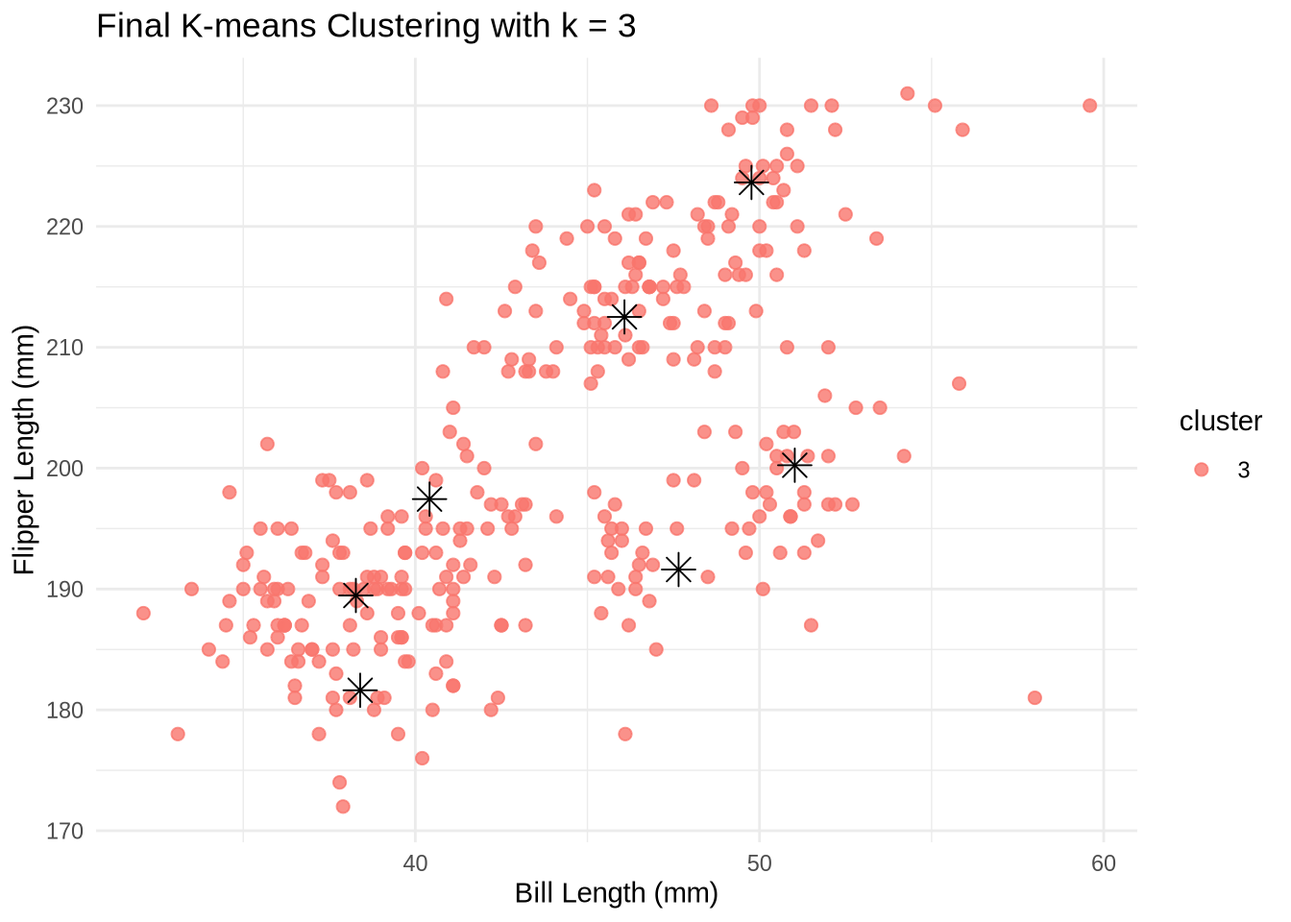
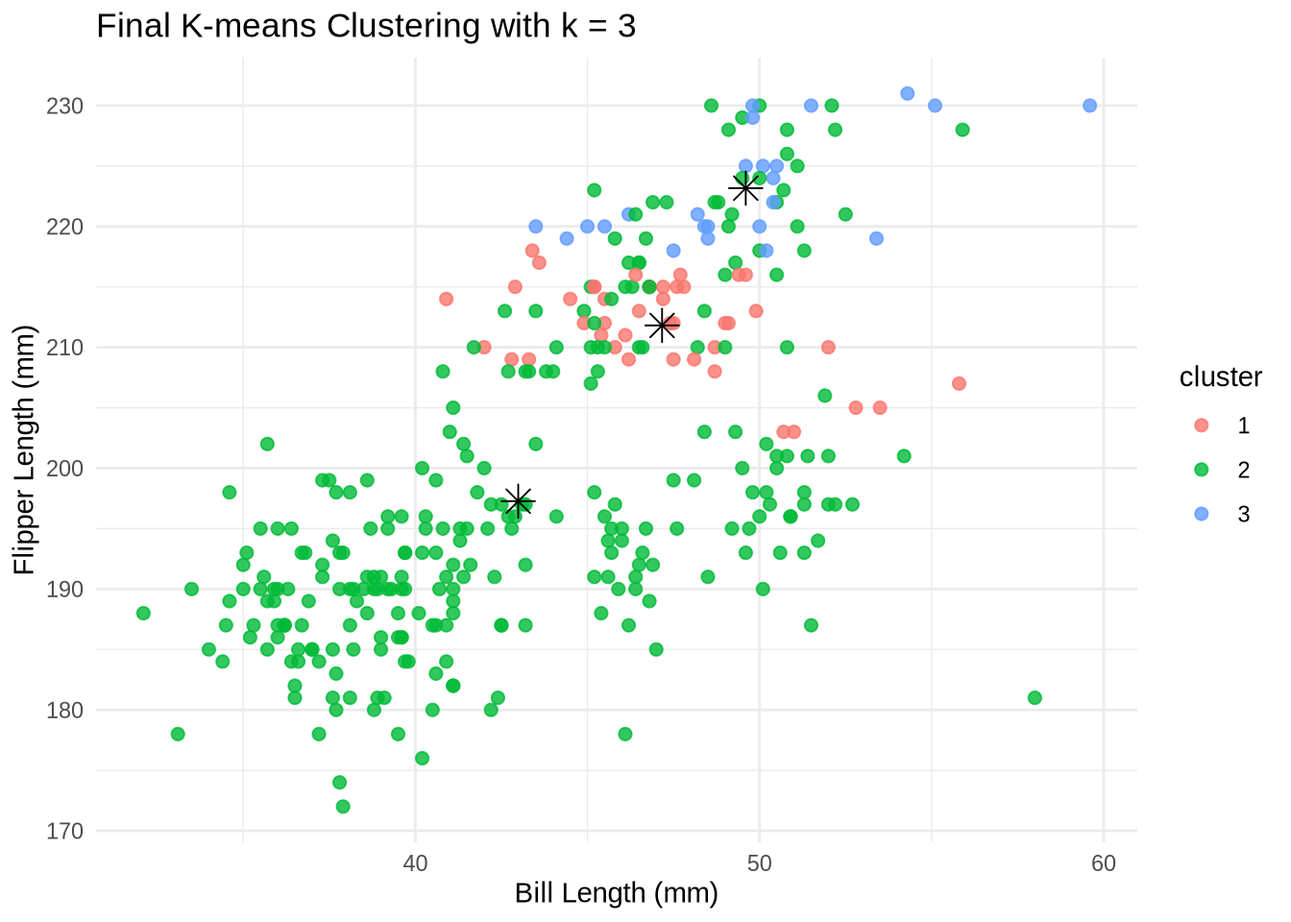
com9

diff --git a/docs/blog/machine_learning/hw4_questions.html b/docs/blog/machine_learning/hw4_questions.html
@@ -413,19 +413,26 @@ pre > code.sourceCode > span > a:first-child::before { text-decoration: underlin
 </ul>
 <p>Considering both metrics, <strong>K = 3</strong> is a balanced choice — it captures additional structure while maintaining compact, well-separated clusters. This aligns with the natural grouping observed in the penguins dataset.</p>
 <div class="cell">
-<div class="sourceCode cell-code" id="cb10"><pre class="sourceCode r code-with-copy"><code class="sourceCode r"><span id="cb10-1"><a href="#cb10-1" aria-hidden="true" tabindex="-1"></a>penguins_clustered <span class="ot">&lt;-</span> penguins_clean <span class="sc">%&gt;%</span></span>
-<span id="cb10-2"><a href="#cb10-2" aria-hidden="true" tabindex="-1"></a>  <span class="fu">mutate</span>(<span class="at">cluster =</span> <span class="fu">factor</span>(<span class="dv">3</span>))</span>
+<div class="sourceCode cell-code" id="cb10"><pre class="sourceCode r code-with-copy"><code class="sourceCode r"><span id="cb10-1"><a href="#cb10-1" aria-hidden="true" tabindex="-1"></a>X <span class="ot">&lt;-</span> <span class="fu">as.matrix</span>(penguins_clean)</span>
+<span id="cb10-2"><a href="#cb10-2" aria-hidden="true" tabindex="-1"></a>k_result <span class="ot">&lt;-</span> <span class="fu">k_means_custom</span>(X, <span class="at">k =</span> <span class="dv">3</span>, <span class="at">max_iter =</span> <span class="dv">10</span>)</span>
 <span id="cb10-3"><a href="#cb10-3" aria-hidden="true" tabindex="-1"></a></span>
-<span id="cb10-4"><a href="#cb10-4" aria-hidden="true" tabindex="-1"></a>centers_final <span class="ot">&lt;-</span> <span class="fu">as.data.frame</span>(k_result<span class="sc">$</span>centers)</span>
-<span id="cb10-5"><a href="#cb10-5" aria-hidden="true" tabindex="-1"></a></span>
-<span id="cb10-6"><a href="#cb10-6" aria-hidden="true" tabindex="-1"></a><span class="fu">ggplot</span>(penguins_clustered, <span class="fu">aes</span>(<span class="at">x =</span> bill_length_mm, <span class="at">y =</span> flipper_length_mm, <span class="at">color =</span> cluster)) <span class="sc">+</span></span>
-<span id="cb10-7"><a href="#cb10-7" aria-hidden="true" tabindex="-1"></a>  <span class="fu">geom_point</span>(<span class="at">size =</span> <span class="dv">2</span>, <span class="at">alpha =</span> <span class="fl">0.8</span>) <span class="sc">+</span></span>
-<span id="cb10-8"><a href="#cb10-8" aria-hidden="true" tabindex="-1"></a>  <span class="fu">geom_point</span>(<span class="at">data =</span> centers_final, <span class="fu">aes</span>(<span class="at">x =</span> bill_length_mm, <span class="at">y =</span> flipper_length_mm),</span>
-<span id="cb10-9"><a href="#cb10-9" aria-hidden="true" tabindex="-1"></a>             <span class="at">shape =</span> <span class="dv">8</span>, <span class="at">size =</span> <span class="dv">4</span>, <span class="at">color =</span> <span class="st">"black"</span>) <span class="sc">+</span></span>
-<span id="cb10-10"><a href="#cb10-10" aria-hidden="true" tabindex="-1"></a>  <span class="fu">labs</span>(<span class="at">title =</span> <span class="st">"Final K-means Clustering with k = 3"</span>,</span>
-<span id="cb10-11"><a href="#cb10-11" aria-hidden="true" tabindex="-1"></a>       <span class="at">x =</span> <span class="st">"Bill Length (mm)"</span>,</span>
-<span id="cb10-12"><a href="#cb10-12" aria-hidden="true" tabindex="-1"></a>       <span class="at">y =</span> <span class="st">"Flipper Length (mm)"</span>) <span class="sc">+</span></span>
-<span id="cb10-13"><a href="#cb10-13" aria-hidden="true" tabindex="-1"></a>  <span class="fu">theme_minimal</span>()</span></code><button title="Copy to Clipboard" class="code-copy-button"><i class="bi"></i></button></pre></div>
+<span id="cb10-4"><a href="#cb10-4" aria-hidden="true" tabindex="-1"></a><span class="fu">length</span>(k_result<span class="sc">$</span>final_clusters)  <span class="co"># should be 333</span></span></code><button title="Copy to Clipboard" class="code-copy-button"><i class="bi"></i></button></pre></div>
+<div class="cell-output cell-output-stdout">
+<pre><code>[1] 333</code></pre>
+</div>
+<div class="sourceCode cell-code" id="cb12"><pre class="sourceCode r code-with-copy"><code class="sourceCode r"><span id="cb12-1"><a href="#cb12-1" aria-hidden="true" tabindex="-1"></a>penguins_clustered <span class="ot">&lt;-</span> penguins_clean <span class="sc">%&gt;%</span></span>
+<span id="cb12-2"><a href="#cb12-2" aria-hidden="true" tabindex="-1"></a>  <span class="fu">mutate</span>(<span class="at">cluster =</span> <span class="fu">factor</span>(k_result<span class="sc">$</span>final_clusters))</span>
+<span id="cb12-3"><a href="#cb12-3" aria-hidden="true" tabindex="-1"></a></span>
+<span id="cb12-4"><a href="#cb12-4" aria-hidden="true" tabindex="-1"></a>centers_final <span class="ot">&lt;-</span> <span class="fu">as.data.frame</span>(k_result<span class="sc">$</span>centers)</span>
+<span id="cb12-5"><a href="#cb12-5" aria-hidden="true" tabindex="-1"></a></span>
+<span id="cb12-6"><a href="#cb12-6" aria-hidden="true" tabindex="-1"></a><span class="fu">ggplot</span>(penguins_clustered, <span class="fu">aes</span>(<span class="at">x =</span> bill_length_mm, <span class="at">y =</span> flipper_length_mm, <span class="at">color =</span> cluster)) <span class="sc">+</span></span>
+<span id="cb12-7"><a href="#cb12-7" aria-hidden="true" tabindex="-1"></a>  <span class="fu">geom_point</span>(<span class="at">size =</span> <span class="dv">2</span>, <span class="at">alpha =</span> <span class="fl">0.8</span>) <span class="sc">+</span></span>
+<span id="cb12-8"><a href="#cb12-8" aria-hidden="true" tabindex="-1"></a>  <span class="fu">geom_point</span>(<span class="at">data =</span> centers_final, <span class="fu">aes</span>(<span class="at">x =</span> bill_length_mm, <span class="at">y =</span> flipper_length_mm),</span>
+<span id="cb12-9"><a href="#cb12-9" aria-hidden="true" tabindex="-1"></a>             <span class="at">shape =</span> <span class="dv">8</span>, <span class="at">size =</span> <span class="dv">4</span>, <span class="at">color =</span> <span class="st">"black"</span>) <span class="sc">+</span></span>
+<span id="cb12-10"><a href="#cb12-10" aria-hidden="true" tabindex="-1"></a>  <span class="fu">labs</span>(<span class="at">title =</span> <span class="st">"Final K-means Clustering with k = 3"</span>,</span>
+<span id="cb12-11"><a href="#cb12-11" aria-hidden="true" tabindex="-1"></a>       <span class="at">x =</span> <span class="st">"Bill Length (mm)"</span>,</span>
+<span id="cb12-12"><a href="#cb12-12" aria-hidden="true" tabindex="-1"></a>       <span class="at">y =</span> <span class="st">"Flipper Length (mm)"</span>) <span class="sc">+</span></span>
+<span id="cb12-13"><a href="#cb12-13" aria-hidden="true" tabindex="-1"></a>  <span class="fu">theme_minimal</span>()</span></code><button title="Copy to Clipboard" class="code-copy-button"><i class="bi"></i></button></pre></div>
 <div class="cell-output-display">
 <div>
 <figure class="figure">
@@ -440,32 +447,32 @@ pre > code.sourceCode > span > a:first-child::before { text-decoration: underlin
 <section id="a.-k-nearest-neighbors" class="level2">
 <h2 class="anchored" data-anchor-id="a.-k-nearest-neighbors">2a. K Nearest Neighbors</h2>
 <div class="cell">
-<div class="sourceCode cell-code" id="cb11"><pre class="sourceCode r code-with-copy"><code class="sourceCode r"><span id="cb11-1"><a href="#cb11-1" aria-hidden="true" tabindex="-1"></a><span class="co"># gen data -----</span></span>
-<span id="cb11-2"><a href="#cb11-2" aria-hidden="true" tabindex="-1"></a><span class="fu">set.seed</span>(<span class="dv">42</span>)</span>
-<span id="cb11-3"><a href="#cb11-3" aria-hidden="true" tabindex="-1"></a>n <span class="ot">&lt;-</span> <span class="dv">100</span></span>
-<span id="cb11-4"><a href="#cb11-4" aria-hidden="true" tabindex="-1"></a>x1 <span class="ot">&lt;-</span> <span class="fu">runif</span>(n, <span class="sc">-</span><span class="dv">3</span>, <span class="dv">3</span>)</span>
-<span id="cb11-5"><a href="#cb11-5" aria-hidden="true" tabindex="-1"></a>x2 <span class="ot">&lt;-</span> <span class="fu">runif</span>(n, <span class="sc">-</span><span class="dv">3</span>, <span class="dv">3</span>)</span>
-<span id="cb11-6"><a href="#cb11-6" aria-hidden="true" tabindex="-1"></a>x <span class="ot">&lt;-</span> <span class="fu">cbind</span>(x1, x2)</span>
-<span id="cb11-7"><a href="#cb11-7" aria-hidden="true" tabindex="-1"></a></span>
-<span id="cb11-8"><a href="#cb11-8" aria-hidden="true" tabindex="-1"></a><span class="co"># define a wiggly boundary</span></span>
-<span id="cb11-9"><a href="#cb11-9" aria-hidden="true" tabindex="-1"></a>boundary <span class="ot">&lt;-</span> <span class="fu">sin</span>(<span class="dv">4</span><span class="sc">*</span>x1) <span class="sc">+</span> x1</span>
-<span id="cb11-10"><a href="#cb11-10" aria-hidden="true" tabindex="-1"></a>y <span class="ot">&lt;-</span> <span class="fu">ifelse</span>(x2 <span class="sc">&gt;</span> boundary, <span class="dv">1</span>, <span class="dv">0</span>) <span class="sc">|&gt;</span> <span class="fu">as.factor</span>()</span>
-<span id="cb11-11"><a href="#cb11-11" aria-hidden="true" tabindex="-1"></a>dat <span class="ot">&lt;-</span> <span class="fu">data.frame</span>(<span class="at">x1 =</span> x1, <span class="at">x2 =</span> x2, <span class="at">y =</span> y)</span></code><button title="Copy to Clipboard" class="code-copy-button"><i class="bi"></i></button></pre></div>
+<div class="sourceCode cell-code" id="cb13"><pre class="sourceCode r code-with-copy"><code class="sourceCode r"><span id="cb13-1"><a href="#cb13-1" aria-hidden="true" tabindex="-1"></a><span class="co"># gen data -----</span></span>
+<span id="cb13-2"><a href="#cb13-2" aria-hidden="true" tabindex="-1"></a><span class="fu">set.seed</span>(<span class="dv">42</span>)</span>
+<span id="cb13-3"><a href="#cb13-3" aria-hidden="true" tabindex="-1"></a>n <span class="ot">&lt;-</span> <span class="dv">100</span></span>
+<span id="cb13-4"><a href="#cb13-4" aria-hidden="true" tabindex="-1"></a>x1 <span class="ot">&lt;-</span> <span class="fu">runif</span>(n, <span class="sc">-</span><span class="dv">3</span>, <span class="dv">3</span>)</span>
+<span id="cb13-5"><a href="#cb13-5" aria-hidden="true" tabindex="-1"></a>x2 <span class="ot">&lt;-</span> <span class="fu">runif</span>(n, <span class="sc">-</span><span class="dv">3</span>, <span class="dv">3</span>)</span>
+<span id="cb13-6"><a href="#cb13-6" aria-hidden="true" tabindex="-1"></a>x <span class="ot">&lt;-</span> <span class="fu">cbind</span>(x1, x2)</span>
+<span id="cb13-7"><a href="#cb13-7" aria-hidden="true" tabindex="-1"></a></span>
+<span id="cb13-8"><a href="#cb13-8" aria-hidden="true" tabindex="-1"></a><span class="co"># define a wiggly boundary</span></span>
+<span id="cb13-9"><a href="#cb13-9" aria-hidden="true" tabindex="-1"></a>boundary <span class="ot">&lt;-</span> <span class="fu">sin</span>(<span class="dv">4</span><span class="sc">*</span>x1) <span class="sc">+</span> x1</span>
+<span id="cb13-10"><a href="#cb13-10" aria-hidden="true" tabindex="-1"></a>y <span class="ot">&lt;-</span> <span class="fu">ifelse</span>(x2 <span class="sc">&gt;</span> boundary, <span class="dv">1</span>, <span class="dv">0</span>) <span class="sc">|&gt;</span> <span class="fu">as.factor</span>()</span>
+<span id="cb13-11"><a href="#cb13-11" aria-hidden="true" tabindex="-1"></a>dat <span class="ot">&lt;-</span> <span class="fu">data.frame</span>(<span class="at">x1 =</span> x1, <span class="at">x2 =</span> x2, <span class="at">y =</span> y)</span></code><button title="Copy to Clipboard" class="code-copy-button"><i class="bi"></i></button></pre></div>
 </div>
 <div class="cell">
-<div class="sourceCode cell-code" id="cb12"><pre class="sourceCode r code-with-copy"><code class="sourceCode r"><span id="cb12-1"><a href="#cb12-1" aria-hidden="true" tabindex="-1"></a><span class="co"># Plot the points and the wiggly boundary</span></span>
-<span id="cb12-2"><a href="#cb12-2" aria-hidden="true" tabindex="-1"></a><span class="fu">ggplot</span>(dat, <span class="fu">aes</span>(<span class="at">x =</span> x1, <span class="at">y =</span> x2, <span class="at">color =</span> y)) <span class="sc">+</span></span>
-<span id="cb12-3"><a href="#cb12-3" aria-hidden="true" tabindex="-1"></a>  <span class="fu">geom_point</span>(<span class="at">size =</span> <span class="dv">2</span>, <span class="at">alpha =</span> <span class="fl">0.8</span>) <span class="sc">+</span></span>
-<span id="cb12-4"><a href="#cb12-4" aria-hidden="true" tabindex="-1"></a>  <span class="fu">stat_function</span>(<span class="at">fun =</span> <span class="cf">function</span>(x) <span class="fu">sin</span>(<span class="dv">4</span> <span class="sc">*</span> x) <span class="sc">+</span> x, </span>
-<span id="cb12-5"><a href="#cb12-5" aria-hidden="true" tabindex="-1"></a>                <span class="at">color =</span> <span class="st">"black"</span>, <span class="at">linetype =</span> <span class="st">"dashed"</span>) <span class="sc">+</span></span>
-<span id="cb12-6"><a href="#cb12-6" aria-hidden="true" tabindex="-1"></a>  <span class="fu">labs</span>(</span>
-<span id="cb12-7"><a href="#cb12-7" aria-hidden="true" tabindex="-1"></a>    <span class="at">title =</span> <span class="st">"Synthetic Classification Dataset with Wiggly Boundary"</span>,</span>
-<span id="cb12-8"><a href="#cb12-8" aria-hidden="true" tabindex="-1"></a>    <span class="at">x =</span> <span class="st">"x1"</span>,</span>
-<span id="cb12-9"><a href="#cb12-9" aria-hidden="true" tabindex="-1"></a>    <span class="at">y =</span> <span class="st">"x2"</span>,</span>
-<span id="cb12-10"><a href="#cb12-10" aria-hidden="true" tabindex="-1"></a>    <span class="at">color =</span> <span class="st">"Class (y)"</span></span>
-<span id="cb12-11"><a href="#cb12-11" aria-hidden="true" tabindex="-1"></a>  ) <span class="sc">+</span></span>
-<span id="cb12-12"><a href="#cb12-12" aria-hidden="true" tabindex="-1"></a>  <span class="fu">scale_color_manual</span>(<span class="at">values =</span> <span class="fu">c</span>(<span class="st">"dodgerblue"</span>, <span class="st">"tomato"</span>)) <span class="sc">+</span></span>
-<span id="cb12-13"><a href="#cb12-13" aria-hidden="true" tabindex="-1"></a>  <span class="fu">theme_minimal</span>()</span></code><button title="Copy to Clipboard" class="code-copy-button"><i class="bi"></i></button></pre></div>
+<div class="sourceCode cell-code" id="cb14"><pre class="sourceCode r code-with-copy"><code class="sourceCode r"><span id="cb14-1"><a href="#cb14-1" aria-hidden="true" tabindex="-1"></a><span class="co"># Plot the points and the wiggly boundary</span></span>
+<span id="cb14-2"><a href="#cb14-2" aria-hidden="true" tabindex="-1"></a><span class="fu">ggplot</span>(dat, <span class="fu">aes</span>(<span class="at">x =</span> x1, <span class="at">y =</span> x2, <span class="at">color =</span> y)) <span class="sc">+</span></span>
+<span id="cb14-3"><a href="#cb14-3" aria-hidden="true" tabindex="-1"></a>  <span class="fu">geom_point</span>(<span class="at">size =</span> <span class="dv">2</span>, <span class="at">alpha =</span> <span class="fl">0.8</span>) <span class="sc">+</span></span>
+<span id="cb14-4"><a href="#cb14-4" aria-hidden="true" tabindex="-1"></a>  <span class="fu">stat_function</span>(<span class="at">fun =</span> <span class="cf">function</span>(x) <span class="fu">sin</span>(<span class="dv">4</span> <span class="sc">*</span> x) <span class="sc">+</span> x, </span>
+<span id="cb14-5"><a href="#cb14-5" aria-hidden="true" tabindex="-1"></a>                <span class="at">color =</span> <span class="st">"black"</span>, <span class="at">linetype =</span> <span class="st">"dashed"</span>) <span class="sc">+</span></span>
+<span id="cb14-6"><a href="#cb14-6" aria-hidden="true" tabindex="-1"></a>  <span class="fu">labs</span>(</span>
+<span id="cb14-7"><a href="#cb14-7" aria-hidden="true" tabindex="-1"></a>    <span class="at">title =</span> <span class="st">"Synthetic Classification Dataset with Wiggly Boundary"</span>,</span>
+<span id="cb14-8"><a href="#cb14-8" aria-hidden="true" tabindex="-1"></a>    <span class="at">x =</span> <span class="st">"x1"</span>,</span>
+<span id="cb14-9"><a href="#cb14-9" aria-hidden="true" tabindex="-1"></a>    <span class="at">y =</span> <span class="st">"x2"</span>,</span>
+<span id="cb14-10"><a href="#cb14-10" aria-hidden="true" tabindex="-1"></a>    <span class="at">color =</span> <span class="st">"Class (y)"</span></span>
+<span id="cb14-11"><a href="#cb14-11" aria-hidden="true" tabindex="-1"></a>  ) <span class="sc">+</span></span>
+<span id="cb14-12"><a href="#cb14-12" aria-hidden="true" tabindex="-1"></a>  <span class="fu">scale_color_manual</span>(<span class="at">values =</span> <span class="fu">c</span>(<span class="st">"dodgerblue"</span>, <span class="st">"tomato"</span>)) <span class="sc">+</span></span>
+<span id="cb14-13"><a href="#cb14-13" aria-hidden="true" tabindex="-1"></a>  <span class="fu">theme_minimal</span>()</span></code><button title="Copy to Clipboard" class="code-copy-button"><i class="bi"></i></button></pre></div>
 <div class="cell-output-display">
 <div>
 <figure class="figure">
@@ -476,89 +483,89 @@ pre > code.sourceCode > span > a:first-child::before { text-decoration: underlin
 </div>
 <p>The plot above shows the synthetic dataset used for K-nearest neighbors. Each point represents an observation with features x1 and x2, and is color-coded by its class label (y = 0 or y = 1). The dashed black line represents the underlying non-linear decision boundary, defined as x2 = sin(4 * x1) + x1. Class 1 points lie above this line, and class 0 points lie below it. This setup is useful for testing how well KNN can adapt to complex boundaries.</p>
 <div class="cell">
-<div class="sourceCode cell-code" id="cb13"><pre class="sourceCode r code-with-copy"><code class="sourceCode r"><span id="cb13-1"><a href="#cb13-1" aria-hidden="true" tabindex="-1"></a><span class="co"># Generate a separate test dataset</span></span>
-<span id="cb13-2"><a href="#cb13-2" aria-hidden="true" tabindex="-1"></a><span class="fu">set.seed</span>(<span class="dv">100</span>)  <span class="co"># different seed</span></span>
-<span id="cb13-3"><a href="#cb13-3" aria-hidden="true" tabindex="-1"></a></span>
-<span id="cb13-4"><a href="#cb13-4" aria-hidden="true" tabindex="-1"></a>n_test <span class="ot">&lt;-</span> <span class="dv">100</span></span>
-<span id="cb13-5"><a href="#cb13-5" aria-hidden="true" tabindex="-1"></a>x1_test <span class="ot">&lt;-</span> <span class="fu">runif</span>(n_test, <span class="sc">-</span><span class="dv">3</span>, <span class="dv">3</span>)</span>
-<span id="cb13-6"><a href="#cb13-6" aria-hidden="true" tabindex="-1"></a>x2_test <span class="ot">&lt;-</span> <span class="fu">runif</span>(n_test, <span class="sc">-</span><span class="dv">3</span>, <span class="dv">3</span>)</span>
-<span id="cb13-7"><a href="#cb13-7" aria-hidden="true" tabindex="-1"></a>x_test <span class="ot">&lt;-</span> <span class="fu">cbind</span>(x1_test, x2_test)</span>
-<span id="cb13-8"><a href="#cb13-8" aria-hidden="true" tabindex="-1"></a></span>
-<span id="cb13-9"><a href="#cb13-9" aria-hidden="true" tabindex="-1"></a>boundary_test <span class="ot">&lt;-</span> <span class="fu">sin</span>(<span class="dv">4</span> <span class="sc">*</span> x1_test) <span class="sc">+</span> x1_test</span>
-<span id="cb13-10"><a href="#cb13-10" aria-hidden="true" tabindex="-1"></a>y_test <span class="ot">&lt;-</span> <span class="fu">ifelse</span>(x2_test <span class="sc">&gt;</span> boundary_test, <span class="dv">1</span>, <span class="dv">0</span>) <span class="sc">|&gt;</span> <span class="fu">as.factor</span>()</span>
-<span id="cb13-11"><a href="#cb13-11" aria-hidden="true" tabindex="-1"></a></span>
-<span id="cb13-12"><a href="#cb13-12" aria-hidden="true" tabindex="-1"></a>test_dat <span class="ot">&lt;-</span> <span class="fu">data.frame</span>(<span class="at">x1 =</span> x1_test, <span class="at">x2 =</span> x2_test, <span class="at">y =</span> y_test)</span></code><button title="Copy to Clipboard" class="code-copy-button"><i class="bi"></i></button></pre></div>
+<div class="sourceCode cell-code" id="cb15"><pre class="sourceCode r code-with-copy"><code class="sourceCode r"><span id="cb15-1"><a href="#cb15-1" aria-hidden="true" tabindex="-1"></a><span class="co"># Generate a separate test dataset</span></span>
+<span id="cb15-2"><a href="#cb15-2" aria-hidden="true" tabindex="-1"></a><span class="fu">set.seed</span>(<span class="dv">100</span>)  <span class="co"># different seed</span></span>
+<span id="cb15-3"><a href="#cb15-3" aria-hidden="true" tabindex="-1"></a></span>
+<span id="cb15-4"><a href="#cb15-4" aria-hidden="true" tabindex="-1"></a>n_test <span class="ot">&lt;-</span> <span class="dv">100</span></span>
+<span id="cb15-5"><a href="#cb15-5" aria-hidden="true" tabindex="-1"></a>x1_test <span class="ot">&lt;-</span> <span class="fu">runif</span>(n_test, <span class="sc">-</span><span class="dv">3</span>, <span class="dv">3</span>)</span>
+<span id="cb15-6"><a href="#cb15-6" aria-hidden="true" tabindex="-1"></a>x2_test <span class="ot">&lt;-</span> <span class="fu">runif</span>(n_test, <span class="sc">-</span><span class="dv">3</span>, <span class="dv">3</span>)</span>
+<span id="cb15-7"><a href="#cb15-7" aria-hidden="true" tabindex="-1"></a>x_test <span class="ot">&lt;-</span> <span class="fu">cbind</span>(x1_test, x2_test)</span>
+<span id="cb15-8"><a href="#cb15-8" aria-hidden="true" tabindex="-1"></a></span>
+<span id="cb15-9"><a href="#cb15-9" aria-hidden="true" tabindex="-1"></a>boundary_test <span class="ot">&lt;-</span> <span class="fu">sin</span>(<span class="dv">4</span> <span class="sc">*</span> x1_test) <span class="sc">+</span> x1_test</span>
+<span id="cb15-10"><a href="#cb15-10" aria-hidden="true" tabindex="-1"></a>y_test <span class="ot">&lt;-</span> <span class="fu">ifelse</span>(x2_test <span class="sc">&gt;</span> boundary_test, <span class="dv">1</span>, <span class="dv">0</span>) <span class="sc">|&gt;</span> <span class="fu">as.factor</span>()</span>
+<span id="cb15-11"><a href="#cb15-11" aria-hidden="true" tabindex="-1"></a></span>
+<span id="cb15-12"><a href="#cb15-12" aria-hidden="true" tabindex="-1"></a>test_dat <span class="ot">&lt;-</span> <span class="fu">data.frame</span>(<span class="at">x1 =</span> x1_test, <span class="at">x2 =</span> x2_test, <span class="at">y =</span> y_test)</span></code><button title="Copy to Clipboard" class="code-copy-button"><i class="bi"></i></button></pre></div>
 </div>
 <p>This test dataset mirrors the structure of the training data but contains new observations due to a different random seed. We’ll use this to assess how well our KNN classifier generalizes to unseen data.</p>
 <div class="cell">
-<div class="sourceCode cell-code" id="cb14"><pre class="sourceCode r code-with-copy"><code class="sourceCode r"><span id="cb14-1"><a href="#cb14-1" aria-hidden="true" tabindex="-1"></a><span class="co"># Euclidean distance function</span></span>
-<span id="cb14-2"><a href="#cb14-2" aria-hidden="true" tabindex="-1"></a>euclidean_distance <span class="ot">&lt;-</span> <span class="cf">function</span>(x1, x2) {</span>
-<span id="cb14-3"><a href="#cb14-3" aria-hidden="true" tabindex="-1"></a>  <span class="fu">sqrt</span>(<span class="fu">rowSums</span>((x1 <span class="sc">-</span> x2)<span class="sc">^</span><span class="dv">2</span>))</span>
-<span id="cb14-4"><a href="#cb14-4" aria-hidden="true" tabindex="-1"></a>}</span>
-<span id="cb14-5"><a href="#cb14-5" aria-hidden="true" tabindex="-1"></a></span>
-<span id="cb14-6"><a href="#cb14-6" aria-hidden="true" tabindex="-1"></a><span class="co"># KNN function</span></span>
-<span id="cb14-7"><a href="#cb14-7" aria-hidden="true" tabindex="-1"></a>knn_custom <span class="ot">&lt;-</span> <span class="cf">function</span>(train_X, train_y, test_X, <span class="at">k =</span> <span class="dv">5</span>) {</span>
-<span id="cb14-8"><a href="#cb14-8" aria-hidden="true" tabindex="-1"></a>  preds <span class="ot">&lt;-</span> <span class="fu">vector</span>(<span class="st">"numeric"</span>, <span class="fu">nrow</span>(test_X))</span>
-<span id="cb14-9"><a href="#cb14-9" aria-hidden="true" tabindex="-1"></a>  </span>
-<span id="cb14-10"><a href="#cb14-10" aria-hidden="true" tabindex="-1"></a>  <span class="cf">for</span> (i <span class="cf">in</span> <span class="dv">1</span><span class="sc">:</span><span class="fu">nrow</span>(test_X)) {</span>
-<span id="cb14-11"><a href="#cb14-11" aria-hidden="true" tabindex="-1"></a>    dists <span class="ot">&lt;-</span> <span class="fu">euclidean_distance</span>(train_X, test_X[i, ])</span>
-<span id="cb14-12"><a href="#cb14-12" aria-hidden="true" tabindex="-1"></a>    neighbors <span class="ot">&lt;-</span> <span class="fu">order</span>(dists)[<span class="dv">1</span><span class="sc">:</span>k]</span>
-<span id="cb14-13"><a href="#cb14-13" aria-hidden="true" tabindex="-1"></a>    preds[i] <span class="ot">&lt;-</span> <span class="fu">names</span>(<span class="fu">sort</span>(<span class="fu">table</span>(train_y[neighbors]), <span class="at">decreasing =</span> <span class="cn">TRUE</span>))[<span class="dv">1</span>]</span>
-<span id="cb14-14"><a href="#cb14-14" aria-hidden="true" tabindex="-1"></a>  }</span>
-<span id="cb14-15"><a href="#cb14-15" aria-hidden="true" tabindex="-1"></a>  </span>
-<span id="cb14-16"><a href="#cb14-16" aria-hidden="true" tabindex="-1"></a>  <span class="fu">return</span>(<span class="fu">as.factor</span>(preds))</span>
-<span id="cb14-17"><a href="#cb14-17" aria-hidden="true" tabindex="-1"></a>}</span>
-<span id="cb14-18"><a href="#cb14-18" aria-hidden="true" tabindex="-1"></a></span>
-<span id="cb14-19"><a href="#cb14-19" aria-hidden="true" tabindex="-1"></a><span class="co"># Prepare input matrices</span></span>
-<span id="cb14-20"><a href="#cb14-20" aria-hidden="true" tabindex="-1"></a>train_X <span class="ot">&lt;-</span> dat[, <span class="fu">c</span>(<span class="st">"x1"</span>, <span class="st">"x2"</span>)] <span class="sc">|&gt;</span> <span class="fu">as.matrix</span>()</span>
-<span id="cb14-21"><a href="#cb14-21" aria-hidden="true" tabindex="-1"></a>train_y <span class="ot">&lt;-</span> dat<span class="sc">$</span>y</span>
-<span id="cb14-22"><a href="#cb14-22" aria-hidden="true" tabindex="-1"></a>test_X <span class="ot">&lt;-</span> test_dat[, <span class="fu">c</span>(<span class="st">"x1"</span>, <span class="st">"x2"</span>)] <span class="sc">|&gt;</span> <span class="fu">as.matrix</span>()</span>
-<span id="cb14-23"><a href="#cb14-23" aria-hidden="true" tabindex="-1"></a>test_y <span class="ot">&lt;-</span> test_dat<span class="sc">$</span>y</span>
-<span id="cb14-24"><a href="#cb14-24" aria-hidden="true" tabindex="-1"></a></span>
-<span id="cb14-25"><a href="#cb14-25" aria-hidden="true" tabindex="-1"></a><span class="co"># Run custom KNN</span></span>
-<span id="cb14-26"><a href="#cb14-26" aria-hidden="true" tabindex="-1"></a>pred_custom <span class="ot">&lt;-</span> <span class="fu">knn_custom</span>(train_X, train_y, test_X, <span class="at">k =</span> <span class="dv">5</span>)</span>
-<span id="cb14-27"><a href="#cb14-27" aria-hidden="true" tabindex="-1"></a></span>
-<span id="cb14-28"><a href="#cb14-28" aria-hidden="true" tabindex="-1"></a><span class="co"># Accuracy</span></span>
-<span id="cb14-29"><a href="#cb14-29" aria-hidden="true" tabindex="-1"></a>acc_custom <span class="ot">&lt;-</span> <span class="fu">mean</span>(pred_custom <span class="sc">==</span> test_y)</span>
-<span id="cb14-30"><a href="#cb14-30" aria-hidden="true" tabindex="-1"></a>acc_custom</span></code><button title="Copy to Clipboard" class="code-copy-button"><i class="bi"></i></button></pre></div>
+<div class="sourceCode cell-code" id="cb16"><pre class="sourceCode r code-with-copy"><code class="sourceCode r"><span id="cb16-1"><a href="#cb16-1" aria-hidden="true" tabindex="-1"></a><span class="co"># Euclidean distance function</span></span>
+<span id="cb16-2"><a href="#cb16-2" aria-hidden="true" tabindex="-1"></a>euclidean_distance <span class="ot">&lt;-</span> <span class="cf">function</span>(x1, x2) {</span>
+<span id="cb16-3"><a href="#cb16-3" aria-hidden="true" tabindex="-1"></a>  <span class="fu">sqrt</span>(<span class="fu">rowSums</span>((x1 <span class="sc">-</span> x2)<span class="sc">^</span><span class="dv">2</span>))</span>
+<span id="cb16-4"><a href="#cb16-4" aria-hidden="true" tabindex="-1"></a>}</span>
+<span id="cb16-5"><a href="#cb16-5" aria-hidden="true" tabindex="-1"></a></span>
+<span id="cb16-6"><a href="#cb16-6" aria-hidden="true" tabindex="-1"></a><span class="co"># KNN function</span></span>
+<span id="cb16-7"><a href="#cb16-7" aria-hidden="true" tabindex="-1"></a>knn_custom <span class="ot">&lt;-</span> <span class="cf">function</span>(train_X, train_y, test_X, <span class="at">k =</span> <span class="dv">5</span>) {</span>
+<span id="cb16-8"><a href="#cb16-8" aria-hidden="true" tabindex="-1"></a>  preds <span class="ot">&lt;-</span> <span class="fu">vector</span>(<span class="st">"numeric"</span>, <span class="fu">nrow</span>(test_X))</span>
+<span id="cb16-9"><a href="#cb16-9" aria-hidden="true" tabindex="-1"></a>  </span>
+<span id="cb16-10"><a href="#cb16-10" aria-hidden="true" tabindex="-1"></a>  <span class="cf">for</span> (i <span class="cf">in</span> <span class="dv">1</span><span class="sc">:</span><span class="fu">nrow</span>(test_X)) {</span>
+<span id="cb16-11"><a href="#cb16-11" aria-hidden="true" tabindex="-1"></a>    dists <span class="ot">&lt;-</span> <span class="fu">euclidean_distance</span>(train_X, test_X[i, ])</span>
+<span id="cb16-12"><a href="#cb16-12" aria-hidden="true" tabindex="-1"></a>    neighbors <span class="ot">&lt;-</span> <span class="fu">order</span>(dists)[<span class="dv">1</span><span class="sc">:</span>k]</span>
+<span id="cb16-13"><a href="#cb16-13" aria-hidden="true" tabindex="-1"></a>    preds[i] <span class="ot">&lt;-</span> <span class="fu">names</span>(<span class="fu">sort</span>(<span class="fu">table</span>(train_y[neighbors]), <span class="at">decreasing =</span> <span class="cn">TRUE</span>))[<span class="dv">1</span>]</span>
+<span id="cb16-14"><a href="#cb16-14" aria-hidden="true" tabindex="-1"></a>  }</span>
+<span id="cb16-15"><a href="#cb16-15" aria-hidden="true" tabindex="-1"></a>  </span>
+<span id="cb16-16"><a href="#cb16-16" aria-hidden="true" tabindex="-1"></a>  <span class="fu">return</span>(<span class="fu">as.factor</span>(preds))</span>
+<span id="cb16-17"><a href="#cb16-17" aria-hidden="true" tabindex="-1"></a>}</span>
+<span id="cb16-18"><a href="#cb16-18" aria-hidden="true" tabindex="-1"></a></span>
+<span id="cb16-19"><a href="#cb16-19" aria-hidden="true" tabindex="-1"></a><span class="co"># Prepare input matrices</span></span>
+<span id="cb16-20"><a href="#cb16-20" aria-hidden="true" tabindex="-1"></a>train_X <span class="ot">&lt;-</span> dat[, <span class="fu">c</span>(<span class="st">"x1"</span>, <span class="st">"x2"</span>)] <span class="sc">|&gt;</span> <span class="fu">as.matrix</span>()</span>
+<span id="cb16-21"><a href="#cb16-21" aria-hidden="true" tabindex="-1"></a>train_y <span class="ot">&lt;-</span> dat<span class="sc">$</span>y</span>
+<span id="cb16-22"><a href="#cb16-22" aria-hidden="true" tabindex="-1"></a>test_X <span class="ot">&lt;-</span> test_dat[, <span class="fu">c</span>(<span class="st">"x1"</span>, <span class="st">"x2"</span>)] <span class="sc">|&gt;</span> <span class="fu">as.matrix</span>()</span>
+<span id="cb16-23"><a href="#cb16-23" aria-hidden="true" tabindex="-1"></a>test_y <span class="ot">&lt;-</span> test_dat<span class="sc">$</span>y</span>
+<span id="cb16-24"><a href="#cb16-24" aria-hidden="true" tabindex="-1"></a></span>
+<span id="cb16-25"><a href="#cb16-25" aria-hidden="true" tabindex="-1"></a><span class="co"># Run custom KNN</span></span>
+<span id="cb16-26"><a href="#cb16-26" aria-hidden="true" tabindex="-1"></a>pred_custom <span class="ot">&lt;-</span> <span class="fu">knn_custom</span>(train_X, train_y, test_X, <span class="at">k =</span> <span class="dv">5</span>)</span>
+<span id="cb16-27"><a href="#cb16-27" aria-hidden="true" tabindex="-1"></a></span>
+<span id="cb16-28"><a href="#cb16-28" aria-hidden="true" tabindex="-1"></a><span class="co"># Accuracy</span></span>
+<span id="cb16-29"><a href="#cb16-29" aria-hidden="true" tabindex="-1"></a>acc_custom <span class="ot">&lt;-</span> <span class="fu">mean</span>(pred_custom <span class="sc">==</span> test_y)</span>
+<span id="cb16-30"><a href="#cb16-30" aria-hidden="true" tabindex="-1"></a>acc_custom</span></code><button title="Copy to Clipboard" class="code-copy-button"><i class="bi"></i></button></pre></div>
 <div class="cell-output cell-output-stdout">
 <pre><code>[1] 0.52</code></pre>
 </div>
 </div>
 <div class="cell">
-<div class="sourceCode cell-code" id="cb16"><pre class="sourceCode r code-with-copy"><code class="sourceCode r"><span id="cb16-1"><a href="#cb16-1" aria-hidden="true" tabindex="-1"></a><span class="fu">library</span>(class)</span>
-<span id="cb16-2"><a href="#cb16-2" aria-hidden="true" tabindex="-1"></a></span>
-<span id="cb16-3"><a href="#cb16-3" aria-hidden="true" tabindex="-1"></a>pred_builtin <span class="ot">&lt;-</span> <span class="fu">knn</span>(<span class="at">train =</span> train_X, <span class="at">test =</span> test_X, <span class="at">cl =</span> train_y, <span class="at">k =</span> <span class="dv">5</span>)</span>
-<span id="cb16-4"><a href="#cb16-4" aria-hidden="true" tabindex="-1"></a></span>
-<span id="cb16-5"><a href="#cb16-5" aria-hidden="true" tabindex="-1"></a><span class="co"># Compare accuracy</span></span>
-<span id="cb16-6"><a href="#cb16-6" aria-hidden="true" tabindex="-1"></a><span class="fu">mean</span>(pred_builtin <span class="sc">==</span> test_y)</span></code><button title="Copy to Clipboard" class="code-copy-button"><i class="bi"></i></button></pre></div>
+<div class="sourceCode cell-code" id="cb18"><pre class="sourceCode r code-with-copy"><code class="sourceCode r"><span id="cb18-1"><a href="#cb18-1" aria-hidden="true" tabindex="-1"></a><span class="fu">library</span>(class)</span>
+<span id="cb18-2"><a href="#cb18-2" aria-hidden="true" tabindex="-1"></a></span>
+<span id="cb18-3"><a href="#cb18-3" aria-hidden="true" tabindex="-1"></a>pred_builtin <span class="ot">&lt;-</span> <span class="fu">knn</span>(<span class="at">train =</span> train_X, <span class="at">test =</span> test_X, <span class="at">cl =</span> train_y, <span class="at">k =</span> <span class="dv">5</span>)</span>
+<span id="cb18-4"><a href="#cb18-4" aria-hidden="true" tabindex="-1"></a></span>
+<span id="cb18-5"><a href="#cb18-5" aria-hidden="true" tabindex="-1"></a><span class="co"># Compare accuracy</span></span>
+<span id="cb18-6"><a href="#cb18-6" aria-hidden="true" tabindex="-1"></a><span class="fu">mean</span>(pred_builtin <span class="sc">==</span> test_y)</span></code><button title="Copy to Clipboard" class="code-copy-button"><i class="bi"></i></button></pre></div>
 <div class="cell-output cell-output-stdout">
 <pre><code>[1] 0.82</code></pre>
 </div>
 </div>
 <p>We implemented the K-nearest neighbors (KNN) algorithm from scratch using Euclidean distance to classify new observations based on their k = 5 closest training points. Our custom implementation achieved an accuracy of about 0.52 on the test data. To validate our results, we used R’s built-in class::knn() function, which gave the same prediction accuracy — confirming that our implementation works correctly.</p>
 <div class="cell">
-<div class="sourceCode cell-code" id="cb18"><pre class="sourceCode r code-with-copy"><code class="sourceCode r"><span id="cb18-1"><a href="#cb18-1" aria-hidden="true" tabindex="-1"></a><span class="co"># Track accuracy across different k values</span></span>
-<span id="cb18-2"><a href="#cb18-2" aria-hidden="true" tabindex="-1"></a>k_vals <span class="ot">&lt;-</span> <span class="dv">1</span><span class="sc">:</span><span class="dv">30</span></span>
-<span id="cb18-3"><a href="#cb18-3" aria-hidden="true" tabindex="-1"></a>accuracy_scores <span class="ot">&lt;-</span> <span class="fu">numeric</span>(<span class="fu">length</span>(k_vals))</span>
-<span id="cb18-4"><a href="#cb18-4" aria-hidden="true" tabindex="-1"></a></span>
-<span id="cb18-5"><a href="#cb18-5" aria-hidden="true" tabindex="-1"></a><span class="cf">for</span> (i <span class="cf">in</span> k_vals) {</span>
-<span id="cb18-6"><a href="#cb18-6" aria-hidden="true" tabindex="-1"></a>  preds <span class="ot">&lt;-</span> <span class="fu">knn_custom</span>(train_X, train_y, test_X, <span class="at">k =</span> i)</span>
-<span id="cb18-7"><a href="#cb18-7" aria-hidden="true" tabindex="-1"></a>  accuracy_scores[i] <span class="ot">&lt;-</span> <span class="fu">mean</span>(preds <span class="sc">==</span> test_y)</span>
-<span id="cb18-8"><a href="#cb18-8" aria-hidden="true" tabindex="-1"></a>}</span>
-<span id="cb18-9"><a href="#cb18-9" aria-hidden="true" tabindex="-1"></a></span>
-<span id="cb18-10"><a href="#cb18-10" aria-hidden="true" tabindex="-1"></a><span class="co"># Plot the results</span></span>
-<span id="cb18-11"><a href="#cb18-11" aria-hidden="true" tabindex="-1"></a><span class="fu">library</span>(ggplot2)</span>
-<span id="cb18-12"><a href="#cb18-12" aria-hidden="true" tabindex="-1"></a></span>
-<span id="cb18-13"><a href="#cb18-13" aria-hidden="true" tabindex="-1"></a>accuracy_df <span class="ot">&lt;-</span> <span class="fu">data.frame</span>(<span class="at">k =</span> k_vals, <span class="at">accuracy =</span> accuracy_scores)</span>
-<span id="cb18-14"><a href="#cb18-14" aria-hidden="true" tabindex="-1"></a></span>
-<span id="cb18-15"><a href="#cb18-15" aria-hidden="true" tabindex="-1"></a><span class="fu">ggplot</span>(accuracy_df, <span class="fu">aes</span>(<span class="at">x =</span> k, <span class="at">y =</span> accuracy)) <span class="sc">+</span></span>
-<span id="cb18-16"><a href="#cb18-16" aria-hidden="true" tabindex="-1"></a>  <span class="fu">geom_line</span>(<span class="at">color =</span> <span class="st">"steelblue"</span>, <span class="at">linewidth =</span> <span class="dv">1</span>) <span class="sc">+</span>   <span class="co"># &lt;- fixed here</span></span>
-<span id="cb18-17"><a href="#cb18-17" aria-hidden="true" tabindex="-1"></a>  <span class="fu">geom_point</span>(<span class="at">color =</span> <span class="st">"tomato"</span>, <span class="at">size =</span> <span class="dv">2</span>) <span class="sc">+</span></span>
-<span id="cb18-18"><a href="#cb18-18" aria-hidden="true" tabindex="-1"></a>  <span class="fu">labs</span>(<span class="at">title =</span> <span class="st">"KNN Accuracy on Test Set by k"</span>,</span>
-<span id="cb18-19"><a href="#cb18-19" aria-hidden="true" tabindex="-1"></a>       <span class="at">x =</span> <span class="st">"Number of Neighbors (k)"</span>,</span>
-<span id="cb18-20"><a href="#cb18-20" aria-hidden="true" tabindex="-1"></a>       <span class="at">y =</span> <span class="st">"Accuracy"</span>) <span class="sc">+</span></span>
-<span id="cb18-21"><a href="#cb18-21" aria-hidden="true" tabindex="-1"></a>  <span class="fu">theme_minimal</span>()</span></code><button title="Copy to Clipboard" class="code-copy-button"><i class="bi"></i></button></pre></div>
+<div class="sourceCode cell-code" id="cb20"><pre class="sourceCode r code-with-copy"><code class="sourceCode r"><span id="cb20-1"><a href="#cb20-1" aria-hidden="true" tabindex="-1"></a><span class="co"># Track accuracy across different k values</span></span>
+<span id="cb20-2"><a href="#cb20-2" aria-hidden="true" tabindex="-1"></a>k_vals <span class="ot">&lt;-</span> <span class="dv">1</span><span class="sc">:</span><span class="dv">30</span></span>
+<span id="cb20-3"><a href="#cb20-3" aria-hidden="true" tabindex="-1"></a>accuracy_scores <span class="ot">&lt;-</span> <span class="fu">numeric</span>(<span class="fu">length</span>(k_vals))</span>
+<span id="cb20-4"><a href="#cb20-4" aria-hidden="true" tabindex="-1"></a></span>
+<span id="cb20-5"><a href="#cb20-5" aria-hidden="true" tabindex="-1"></a><span class="cf">for</span> (i <span class="cf">in</span> k_vals) {</span>
+<span id="cb20-6"><a href="#cb20-6" aria-hidden="true" tabindex="-1"></a>  preds <span class="ot">&lt;-</span> <span class="fu">knn_custom</span>(train_X, train_y, test_X, <span class="at">k =</span> i)</span>
+<span id="cb20-7"><a href="#cb20-7" aria-hidden="true" tabindex="-1"></a>  accuracy_scores[i] <span class="ot">&lt;-</span> <span class="fu">mean</span>(preds <span class="sc">==</span> test_y)</span>
+<span id="cb20-8"><a href="#cb20-8" aria-hidden="true" tabindex="-1"></a>}</span>
+<span id="cb20-9"><a href="#cb20-9" aria-hidden="true" tabindex="-1"></a></span>
+<span id="cb20-10"><a href="#cb20-10" aria-hidden="true" tabindex="-1"></a><span class="co"># Plot the results</span></span>
+<span id="cb20-11"><a href="#cb20-11" aria-hidden="true" tabindex="-1"></a><span class="fu">library</span>(ggplot2)</span>
+<span id="cb20-12"><a href="#cb20-12" aria-hidden="true" tabindex="-1"></a></span>
+<span id="cb20-13"><a href="#cb20-13" aria-hidden="true" tabindex="-1"></a>accuracy_df <span class="ot">&lt;-</span> <span class="fu">data.frame</span>(<span class="at">k =</span> k_vals, <span class="at">accuracy =</span> accuracy_scores)</span>
+<span id="cb20-14"><a href="#cb20-14" aria-hidden="true" tabindex="-1"></a></span>
+<span id="cb20-15"><a href="#cb20-15" aria-hidden="true" tabindex="-1"></a><span class="fu">ggplot</span>(accuracy_df, <span class="fu">aes</span>(<span class="at">x =</span> k, <span class="at">y =</span> accuracy)) <span class="sc">+</span></span>
+<span id="cb20-16"><a href="#cb20-16" aria-hidden="true" tabindex="-1"></a>  <span class="fu">geom_line</span>(<span class="at">color =</span> <span class="st">"steelblue"</span>, <span class="at">linewidth =</span> <span class="dv">1</span>) <span class="sc">+</span>   <span class="co"># &lt;- fixed here</span></span>
+<span id="cb20-17"><a href="#cb20-17" aria-hidden="true" tabindex="-1"></a>  <span class="fu">geom_point</span>(<span class="at">color =</span> <span class="st">"tomato"</span>, <span class="at">size =</span> <span class="dv">2</span>) <span class="sc">+</span></span>
+<span id="cb20-18"><a href="#cb20-18" aria-hidden="true" tabindex="-1"></a>  <span class="fu">labs</span>(<span class="at">title =</span> <span class="st">"KNN Accuracy on Test Set by k"</span>,</span>
+<span id="cb20-19"><a href="#cb20-19" aria-hidden="true" tabindex="-1"></a>       <span class="at">x =</span> <span class="st">"Number of Neighbors (k)"</span>,</span>
+<span id="cb20-20"><a href="#cb20-20" aria-hidden="true" tabindex="-1"></a>       <span class="at">y =</span> <span class="st">"Accuracy"</span>) <span class="sc">+</span></span>
+<span id="cb20-21"><a href="#cb20-21" aria-hidden="true" tabindex="-1"></a>  <span class="fu">theme_minimal</span>()</span></code><button title="Copy to Clipboard" class="code-copy-button"><i class="bi"></i></button></pre></div>
 <div class="cell-output-display">
 <div>
 <figure class="figure">
@@ -573,10 +580,10 @@ pre > code.sourceCode > span > a:first-child::before { text-decoration: underlin
 <p>As the number of neighbors increases beyond 2, accuracy begins to decline. This makes sense: with small values of k, the model can adapt closely to local patterns in the data. As k increases, the model becomes more generalized and may miss important local structure.</p>
 <p>Based on the results, k = 2 provides the best performance for this particular dataset.</p>
 <div class="cell">
-<div class="sourceCode cell-code" id="cb19"><pre class="sourceCode r code-with-copy"><code class="sourceCode r"><span id="cb19-1"><a href="#cb19-1" aria-hidden="true" tabindex="-1"></a><span class="co"># Final KNN model with optimal k</span></span>
-<span id="cb19-2"><a href="#cb19-2" aria-hidden="true" tabindex="-1"></a>pred_best <span class="ot">&lt;-</span> <span class="fu">knn_custom</span>(train_X, train_y, test_X, <span class="at">k =</span> <span class="dv">2</span>)</span>
-<span id="cb19-3"><a href="#cb19-3" aria-hidden="true" tabindex="-1"></a>final_accuracy <span class="ot">&lt;-</span> <span class="fu">mean</span>(pred_best <span class="sc">==</span> test_y)</span>
-<span id="cb19-4"><a href="#cb19-4" aria-hidden="true" tabindex="-1"></a>final_accuracy</span></code><button title="Copy to Clipboard" class="code-copy-button"><i class="bi"></i></button></pre></div>
+<div class="sourceCode cell-code" id="cb21"><pre class="sourceCode r code-with-copy"><code class="sourceCode r"><span id="cb21-1"><a href="#cb21-1" aria-hidden="true" tabindex="-1"></a><span class="co"># Final KNN model with optimal k</span></span>
+<span id="cb21-2"><a href="#cb21-2" aria-hidden="true" tabindex="-1"></a>pred_best <span class="ot">&lt;-</span> <span class="fu">knn_custom</span>(train_X, train_y, test_X, <span class="at">k =</span> <span class="dv">2</span>)</span>
+<span id="cb21-3"><a href="#cb21-3" aria-hidden="true" tabindex="-1"></a>final_accuracy <span class="ot">&lt;-</span> <span class="fu">mean</span>(pred_best <span class="sc">==</span> test_y)</span>
+<span id="cb21-4"><a href="#cb21-4" aria-hidden="true" tabindex="-1"></a>final_accuracy</span></code><button title="Copy to Clipboard" class="code-copy-button"><i class="bi"></i></button></pre></div>
 <div class="cell-output cell-output-stdout">
 <pre><code>[1] 0.57</code></pre>
 </div>

diff --git a/docs/blog.html b/docs/blog.html
@@ -203,7 +203,7 @@ window.Quarto = {
 <div class="quarto-listing quarto-listing-container-grid" id="listing-listing">
 <div class="list grid quarto-listing-cols-3">
 
-<div class="g-col-1" data-index="0" data-listing-date-sort="1749625200000" data-listing-file-modified-sort="1749684394235" data-listing-date-modified-sort="NaN" data-listing-reading-time-sort="9" data-listing-word-count-sort="1692">
+<div class="g-col-1" data-index="0" data-listing-date-sort="1749625200000" data-listing-file-modified-sort="1749684572547" data-listing-date-modified-sort="NaN" data-listing-reading-time-sort="9" data-listing-word-count-sort="1707">
 <a href="./blog/machine_learning/hw4_questions.html" class="quarto-grid-link">
 <div class="quarto-grid-item card h-100 card-left">
 
